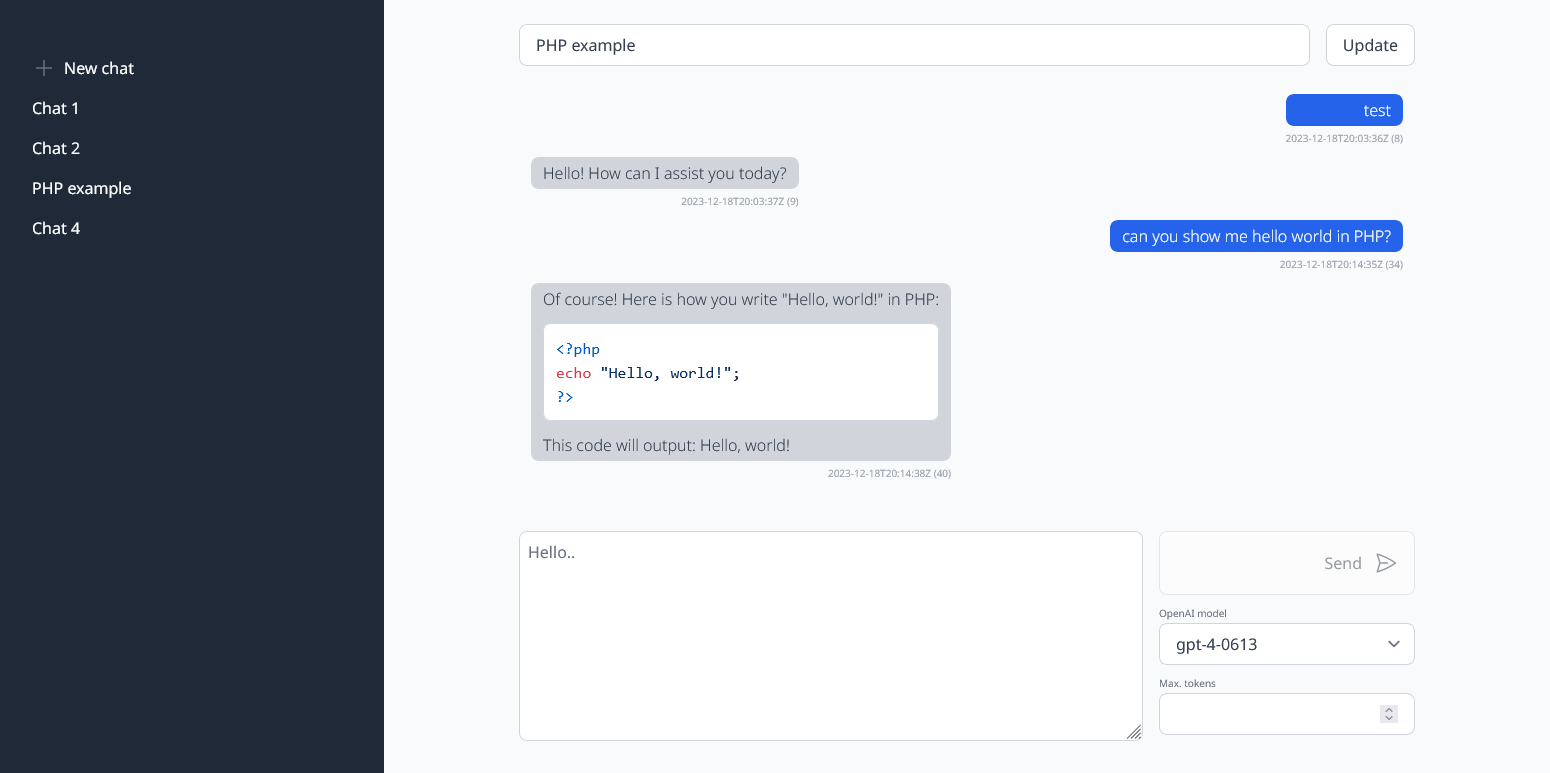
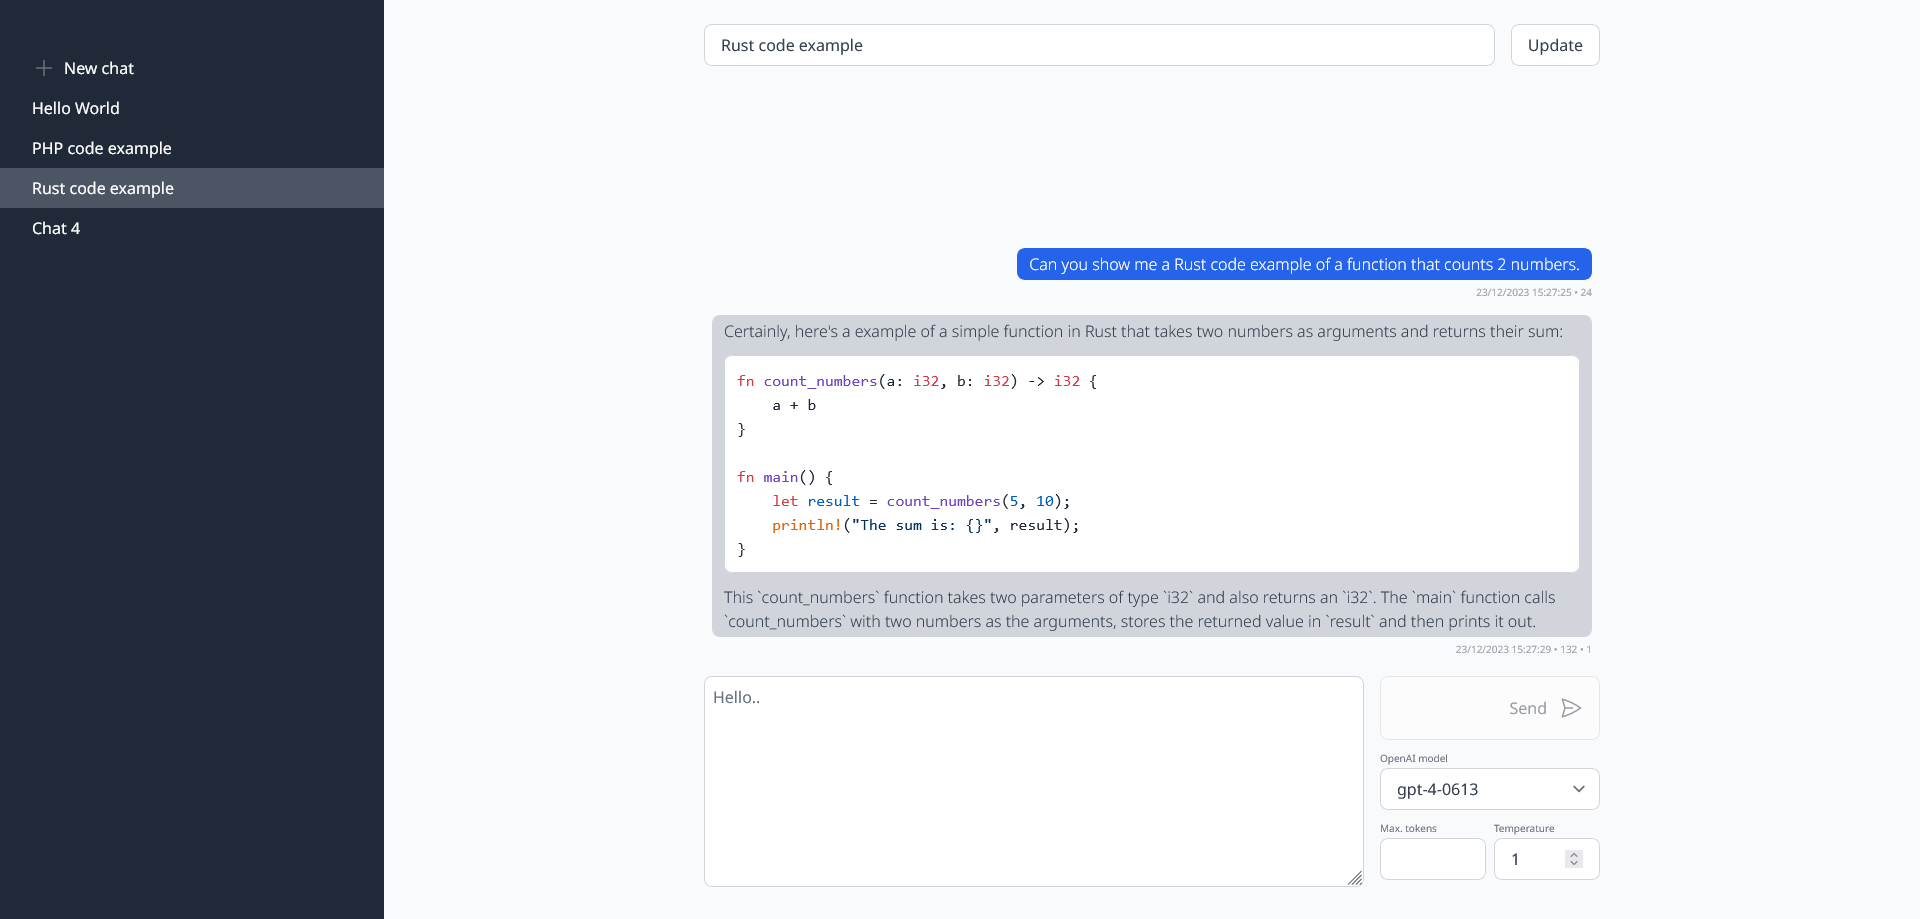
WIP

diff --git a/client/src/components/ListChats.vue b/client/src/components/ListChats.vue
@@ -8,7 +8,12 @@ const props = defineProps({
 		type: Boolean,
 		default: false,
 		required: false
-	}
+	},
+    selectedChat: {
+		type: Object as () => Chat | undefined,
+		default: null,
+		required: true
+	},
 })
 
 let chats = ref<Array<Chat>>([])
@@ -34,7 +39,14 @@ defineEmits(['selectedChatChanged', 'createChat'])
 		<StoreChatButton @create-chat="$emit('createChat')" />
 
 		<div v-for="chat in chats" :key="chat.id">
-			<button @click="$emit('selectedChatChanged', chat)" class="w-full px-8 py-2 text-left text-white hover:bg-gray-600">
+			<button
+                @click="$emit('selectedChatChanged', chat)"
+                class="w-full px-8 py-2 text-left text-white hover:bg-gray-600"
+                :class="{
+                    'bg-gray-600': selectedChat?.id === chat.id,
+                    'bg-gray-800': selectedChat?.id !== chat.id
+                }"
+            >
 				{{ chat.title ?? 'Chat ' + chat.id }}
 			</button>
 		</div>

diff --git a/client/src/App.vue b/client/src/App.vue
@@ -75,7 +75,7 @@ const updateChatTitle = (title: string) => {
 <template>
 	<div class="flex bg-gray-50">
 		<div class="h-screen bg-gray-800 w-96">
-			<ListChats :is-fetching="isFetchChats" @selected-chat-changed="setSelectedChat" @create-chat="createChat" />
+			<ListChats :is-fetching="isFetchChats" :selected-chat="selectedChat" @selected-chat-changed="setSelectedChat" @create-chat="createChat" />
 		</div>
 		<main class="w-full max-w-4xl mx-auto">
 			<div v-if="selectedChat !== undefined" class="flex flex-col h-screen">

diff --git a/README.md b/README.md
@@ -1,7 +1,5 @@
 # OpenAI Chat
 
-![Screenshot](docs/screenshot.png)
-
 ## Introduction
 
 OpenAI Chat is a web application hat allows you to interact with the [OpenAI API](https://beta.openai.com/). The application is build in [Rust](https://www.rust-lang.org/) and [Vue](https://vuejs.org/). The history of the chat is stored in a [MySQL](https://www.mysql.com/) database.
@@ -9,6 +7,8 @@ OpenAI Chat is a web application hat allows you to interact with the [OpenAI API
 You can easily start a new chat or continue an existing chat via the sidebar. You can choose the engine (model) and the temperature for each chat individually. When a code snippet is detected, it will automatically be highlighted using [Highlight.js](https://highlightjs.org/).
 
 With each new message you send, the tokens used are increasing. This is visible on the right-hand side of the timestamp of each message that you send. Each new message will contain all previous messages of this chat and therefore the tokens used will increase.
+
+![Screenshot](docs/screenshot.png)
 
 ## Installation
 
